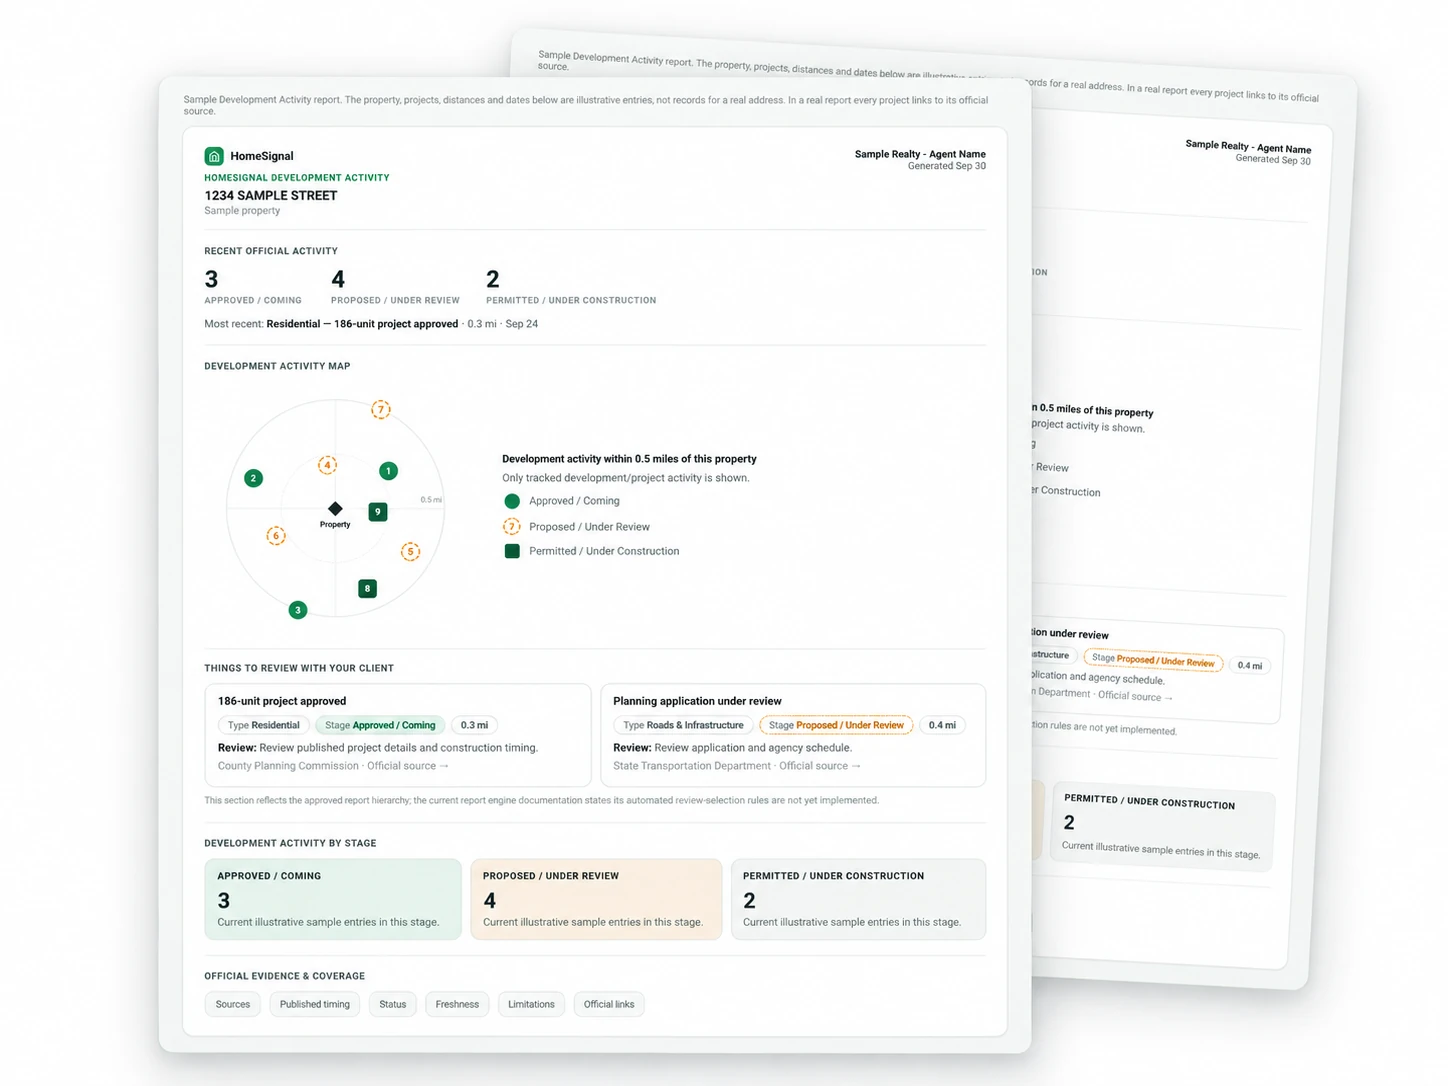
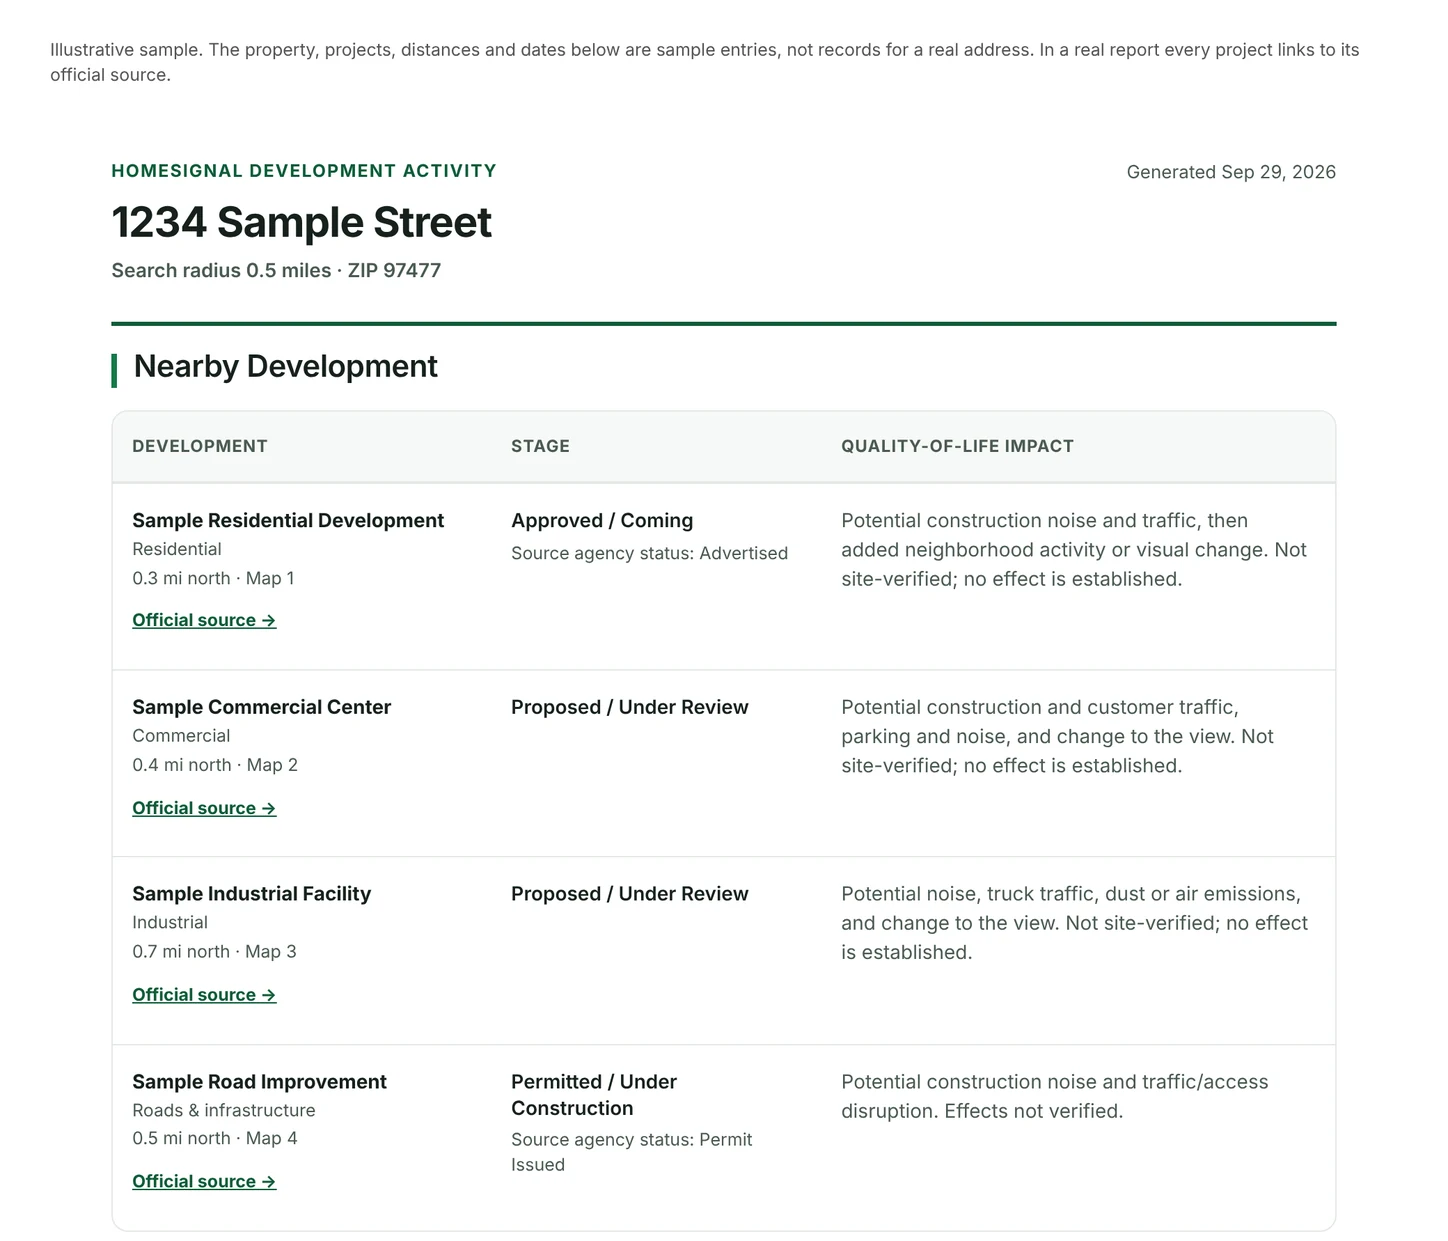
Homepage: replace the report preview with the current three-column Development Activity report
The preview is rendered from the real lib/da-report-view.js over a real-handler response (generic 'Sample' fixture rows, labelled Illustrative sample); scripts/build-home-report-preview.mjs regenerates it. Image 1448x1086 -> 1448x1241, cache-busted with ?v=. Homepage layout, copy, CTA and report engine unchanged; home-index tests updated to pin the new asset.

Claude-Session: https://claude.ai/code/session_01SqyPupxZigTe3zxm9UiU5A

diff --git a/index.html b/index.html
@@ -70,10 +70,10 @@
         <p class="home-index__enterprise-body">Know what’s changing around a property before your client does.</p>
         <a class="home-index__enterprise-cta" id="homeEnterpriseCta" href="development-activity.html">Explore Agent Reports →</a>
       </div>
-      <img src="assets/home-development-activity-report-preview.webp"
+      <img src="assets/home-development-activity-report-preview.webp?v=20261011"
            class="home-index__report-preview"
-           alt="Sample HomeSignal Development Activity report pages"
-           width="1448" height="1086" decoding="async">
+           alt="Illustrative sample of the HomeSignal Development Activity report: a three-column table of nearby development, its stage, and potential quality-of-life considerations"
+           width="1448" height="1241" decoding="async">
     </section>
 
     <section class="home-index__results" id="homeExploreResults" aria-labelledby="homeResultsHeading">

diff --git a/docs/homepage-index-design-assets-2026-09-30.md b/docs/homepage-index-design-assets-2026-09-30.md
@@ -8,7 +8,9 @@ Use the approved static asset:
 
 `assets/home-development-activity-report-preview.webp`
 
-It is a placeholder and may be revised later. Do not regenerate, redesign, or substitute legacy NYC/future-surroundings UI in the homepage implementation order.
+It is a placeholder and may be revised later.
+
+**Revised 2026-10-11:** the asset now shows the CURRENT three-column report (Development | Stage | Quality-of-Life Impact). It is not a drawing: `node scripts/build-home-report-preview.mjs` renders the real `lib/da-report-view.js` over a response from the real request handler (generic "Sample …" fixture rows, labelled "Illustrative sample"), crops the report header and the Nearby Development table, and writes the webp (1448x1241). Re-run it when the report table or the sample property changes; the `?v=` on the `<img>` src must be bumped with it. Do not regenerate, redesign, or substitute legacy NYC/future-surroundings UI in the homepage implementation order.
 
 ## 2. Development map preview
 
